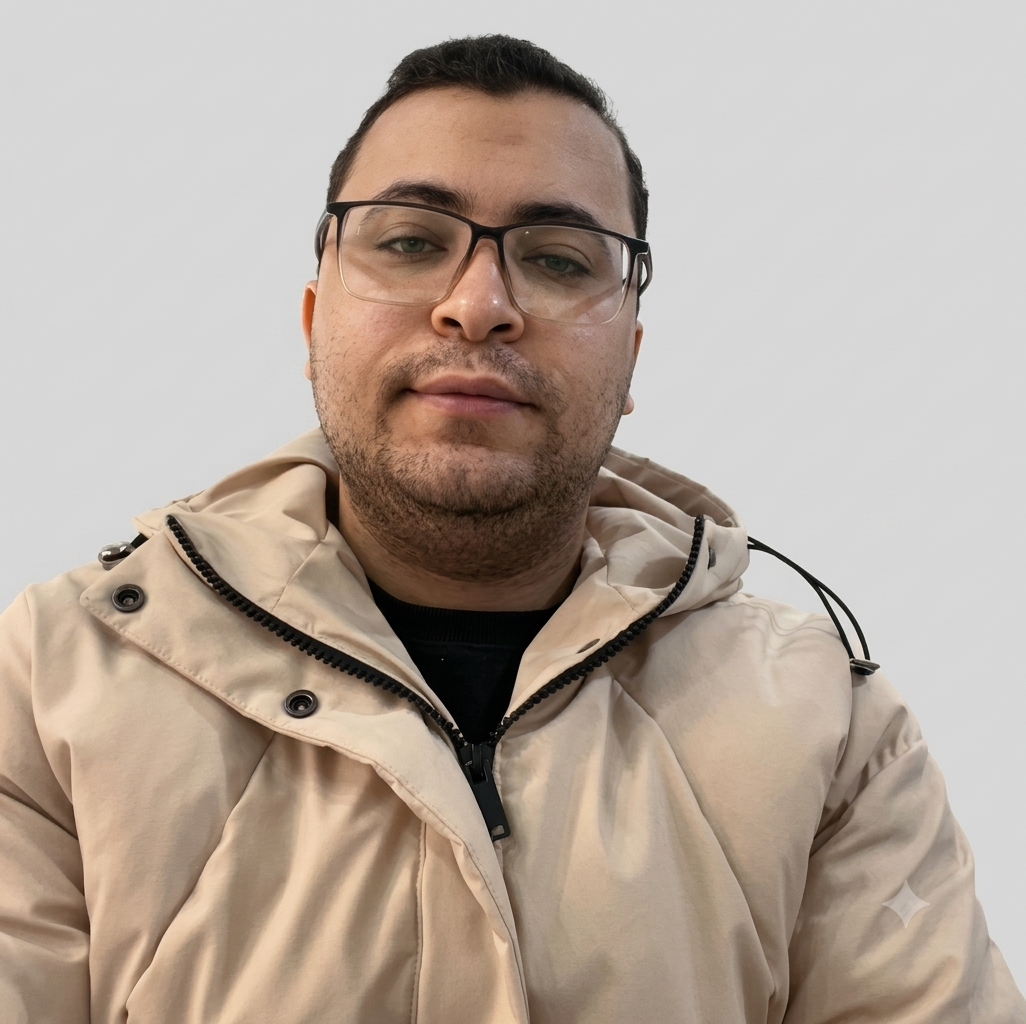
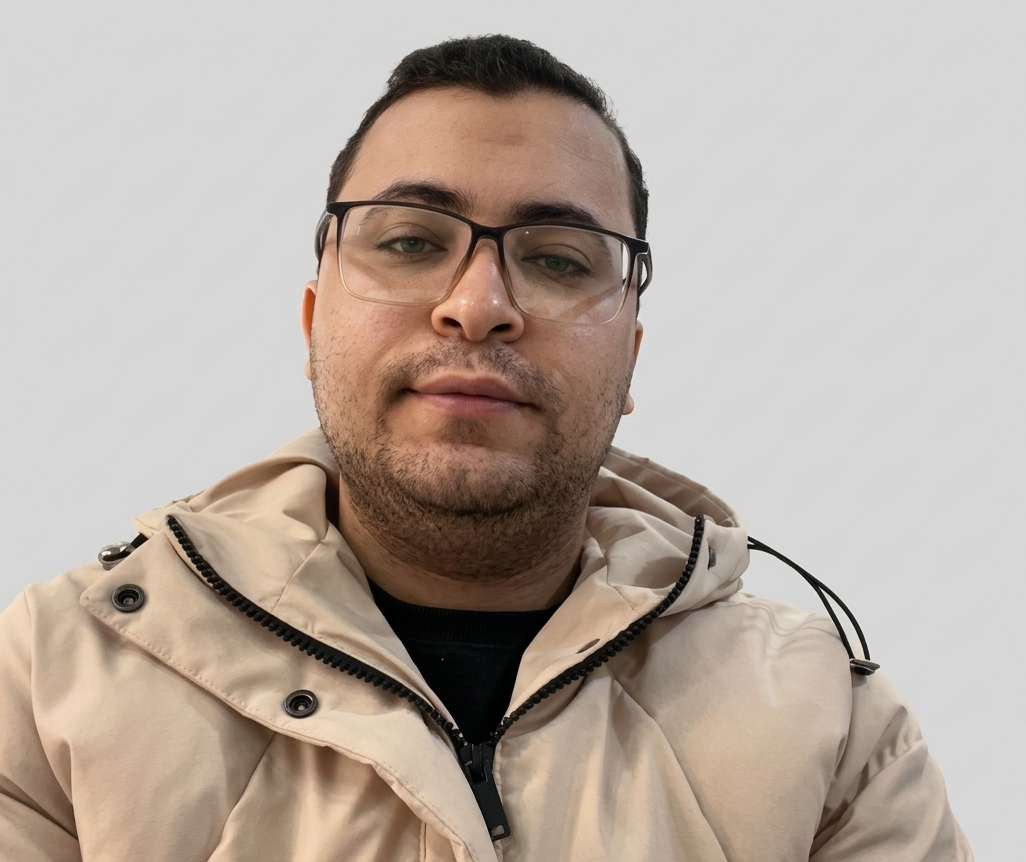
update change language alert

diff --git a/css/components.css b/css/components.css
@@ -324,6 +324,19 @@ html[data-theme="dark"] .saved-pill{color:#5CE0A0;}
   font-size:14px;padding:4px 6px;line-height:1;
 }
 .lang-toast .close:hover{color:var(--ink);}
+@media (max-width:640px){
+  .lang-toast{
+    top:auto;bottom:16px;left:16px;right:16px;
+    transform:translateY(16px);
+    flex-wrap:wrap;justify-content:center;text-align:center;
+    max-width:none;border-radius:16px;padding:12px 14px;font-size:.78rem;
+  }
+  .lang-toast.show{transform:translateY(0);}
+  .lang-toast span{flex:1 1 100%;order:2;}
+  .lang-toast i.globe{order:1;}
+  .lang-toast .switch{order:3;}
+  .lang-toast .close{order:4;}
+}
 
 /* ===== Back to top ===== */
 .back-to-top{